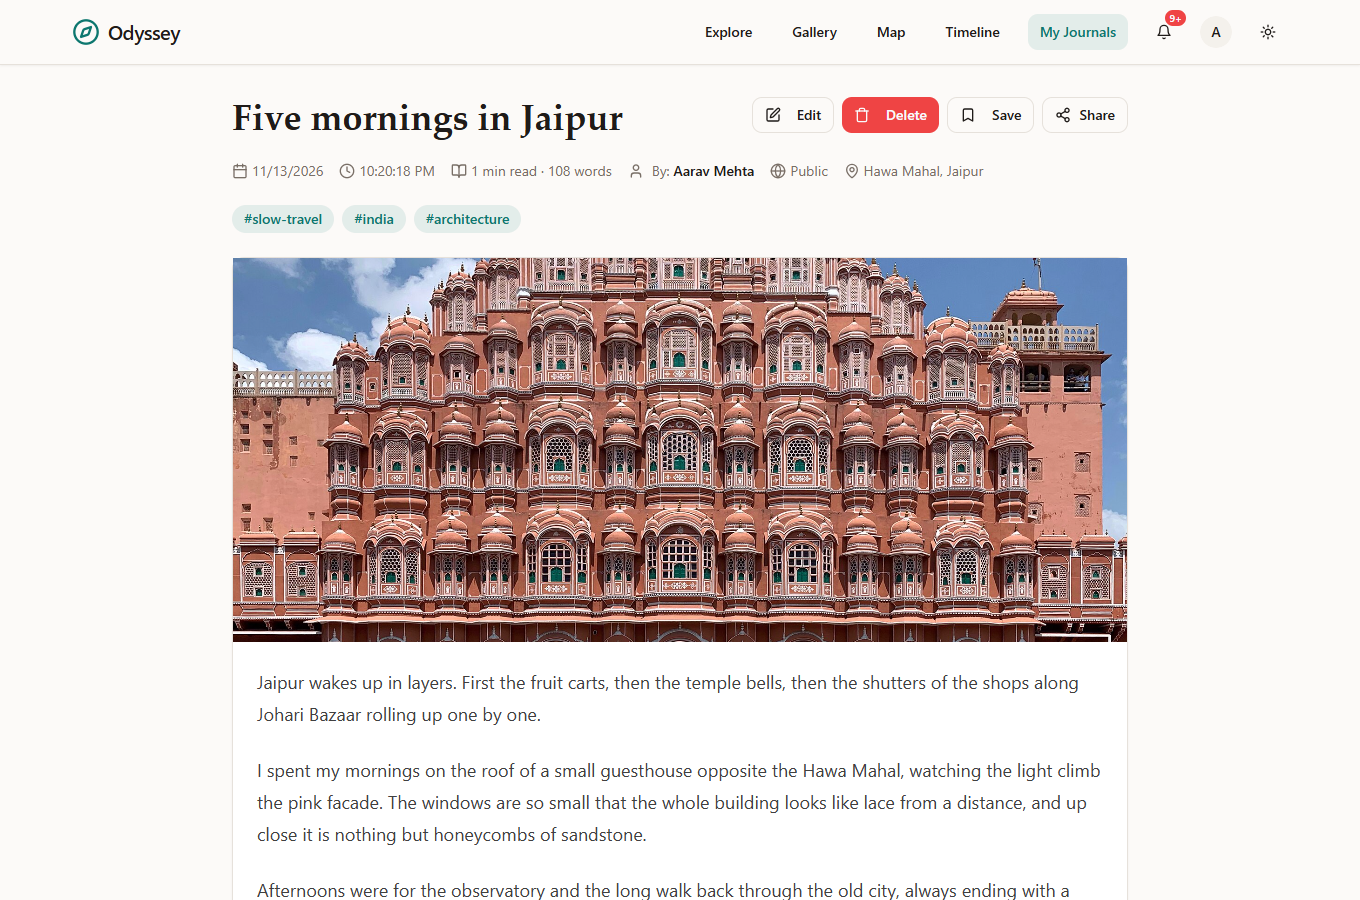
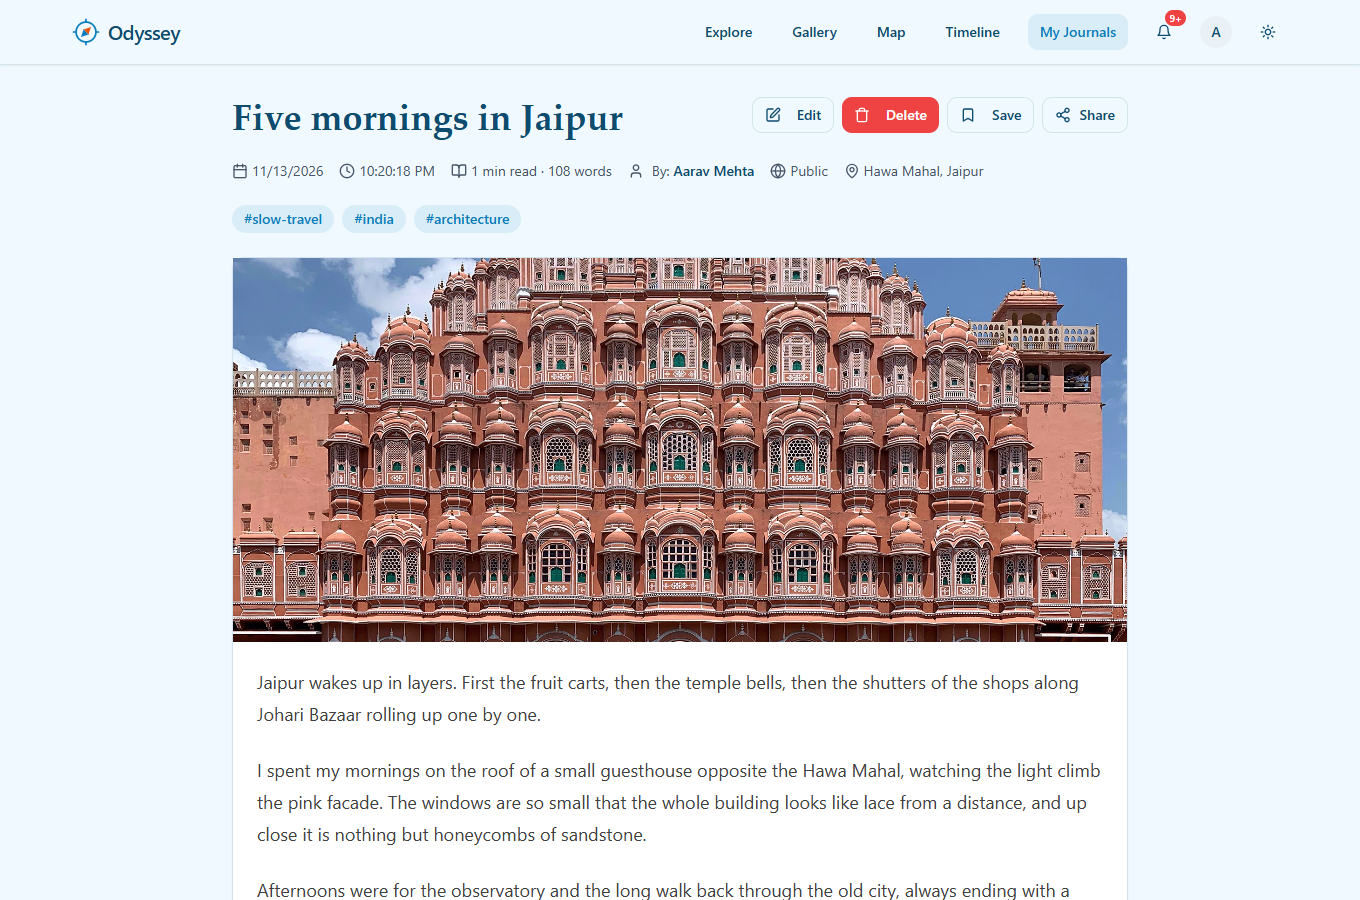
docs: refresh README palette wording and screenshots
Describe the sky-and-ocean editorial design and credit the frontend-
design and UI UX Pro Max methods, and regenerate every doc screenshot
against the new theme, including a true dark-mode home capture.

diff --git a/README.md b/README.md
@@ -29,7 +29,7 @@ A full-stack travel journaling platform for documenting, sharing and reliving tr
 - **Accounts** — email/password registration with server-side validation, email verification, password reset, and session management. Access tokens live in short-lived HttpOnly cookies; rotating refresh tokens can be reviewed and revoked from the Security page.
 - **Operations** — Docker images for the API and web app, a Compose stack with MySQL, Actuator health probes, and backup/restore guides.
 - **Dark mode and responsive layout** - usable from a phone to a desktop.
-- **Editorial design** - a warm paper-and-teal palette with serif display headings, a quiet chrome around two rich moments (the hero collage with its animated route teaser and the Explore masonry photo wall), rubber-stamp primary actions, a morphing navigation burger and a route-line signature that appears in the loader, empty states and section dividers. Runs on tokens and hand-written CSS from the [unslop](https://github.com/heydamir/unslop) method, with control patterns adapted from [Uiverse galaxy](https://github.com/uiverse-io/galaxy) - no extra runtime dependencies.
+- **Editorial design** - a sky-and-ocean travel palette (ice-sky paper, deep ocean navy ink, sky-blue primary with adventure-orange accents) with serif display headings, a quiet chrome around two rich moments (the hero collage with its animated route teaser and the Explore masonry photo wall), rubber-stamp primary actions, a morphing navigation burger and a route-line signature that appears in the loader, empty states and section dividers. Runs on tokens and hand-written CSS, with the palette grounded in the [UI UX Pro Max](https://github.com/nextlevelbuilder/ui-ux-pro-max-skill) travel profiles and the visual direction guided by [Anthropic's frontend-design](https://github.com/anthropics/skills) method - no extra runtime dependencies.
 - **Reading mode** - journal pages render on a relaxed typographic scale with reading time and a scroll progress bar.
 - **Installable app** - a web app manifest and service worker let browsers install Odyssey to a home screen and serve the shell offline; API traffic is never cached.
 - **Accessible by default** — keyboard-operable journal cards and map markers, labelled pagination, lazy-loaded gallery images and a feed that loads authors and places without per-entry queries.
